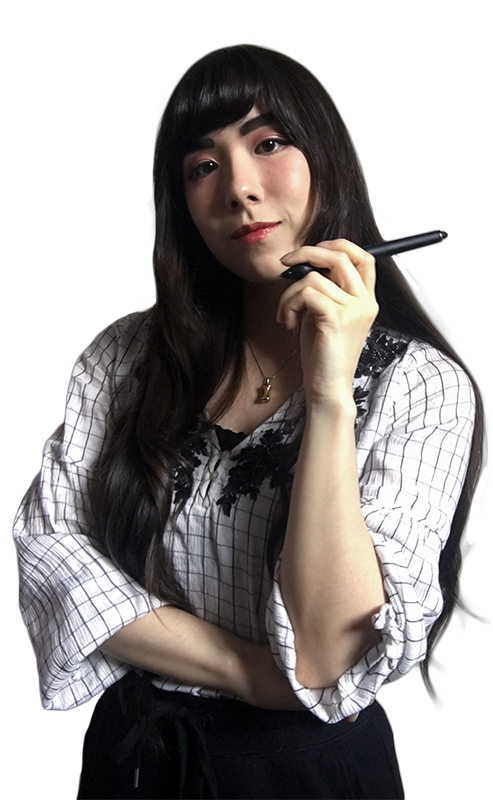
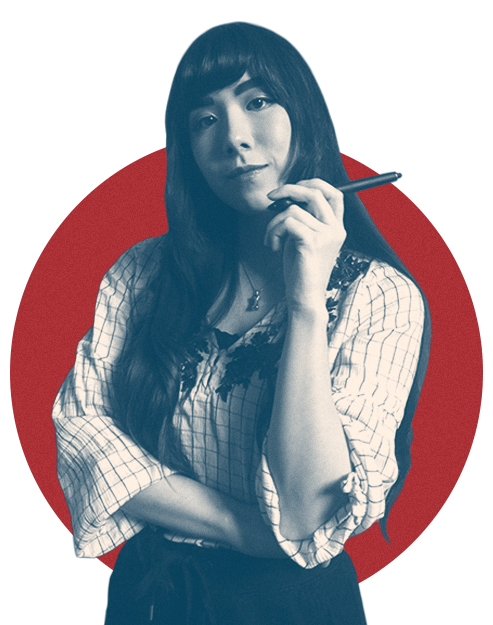
about img

diff --git a/about.html b/about.html
@@ -43,7 +43,7 @@
 
             <div class="two-column-wrapper">
                 <div class="profile-image-wrapper">
-                    <img src="images/Self.png"></img>
+                    <img src="images/Self-2.png"></img>
                 </div>
 
                 <div class="profile-content-wrapper">
